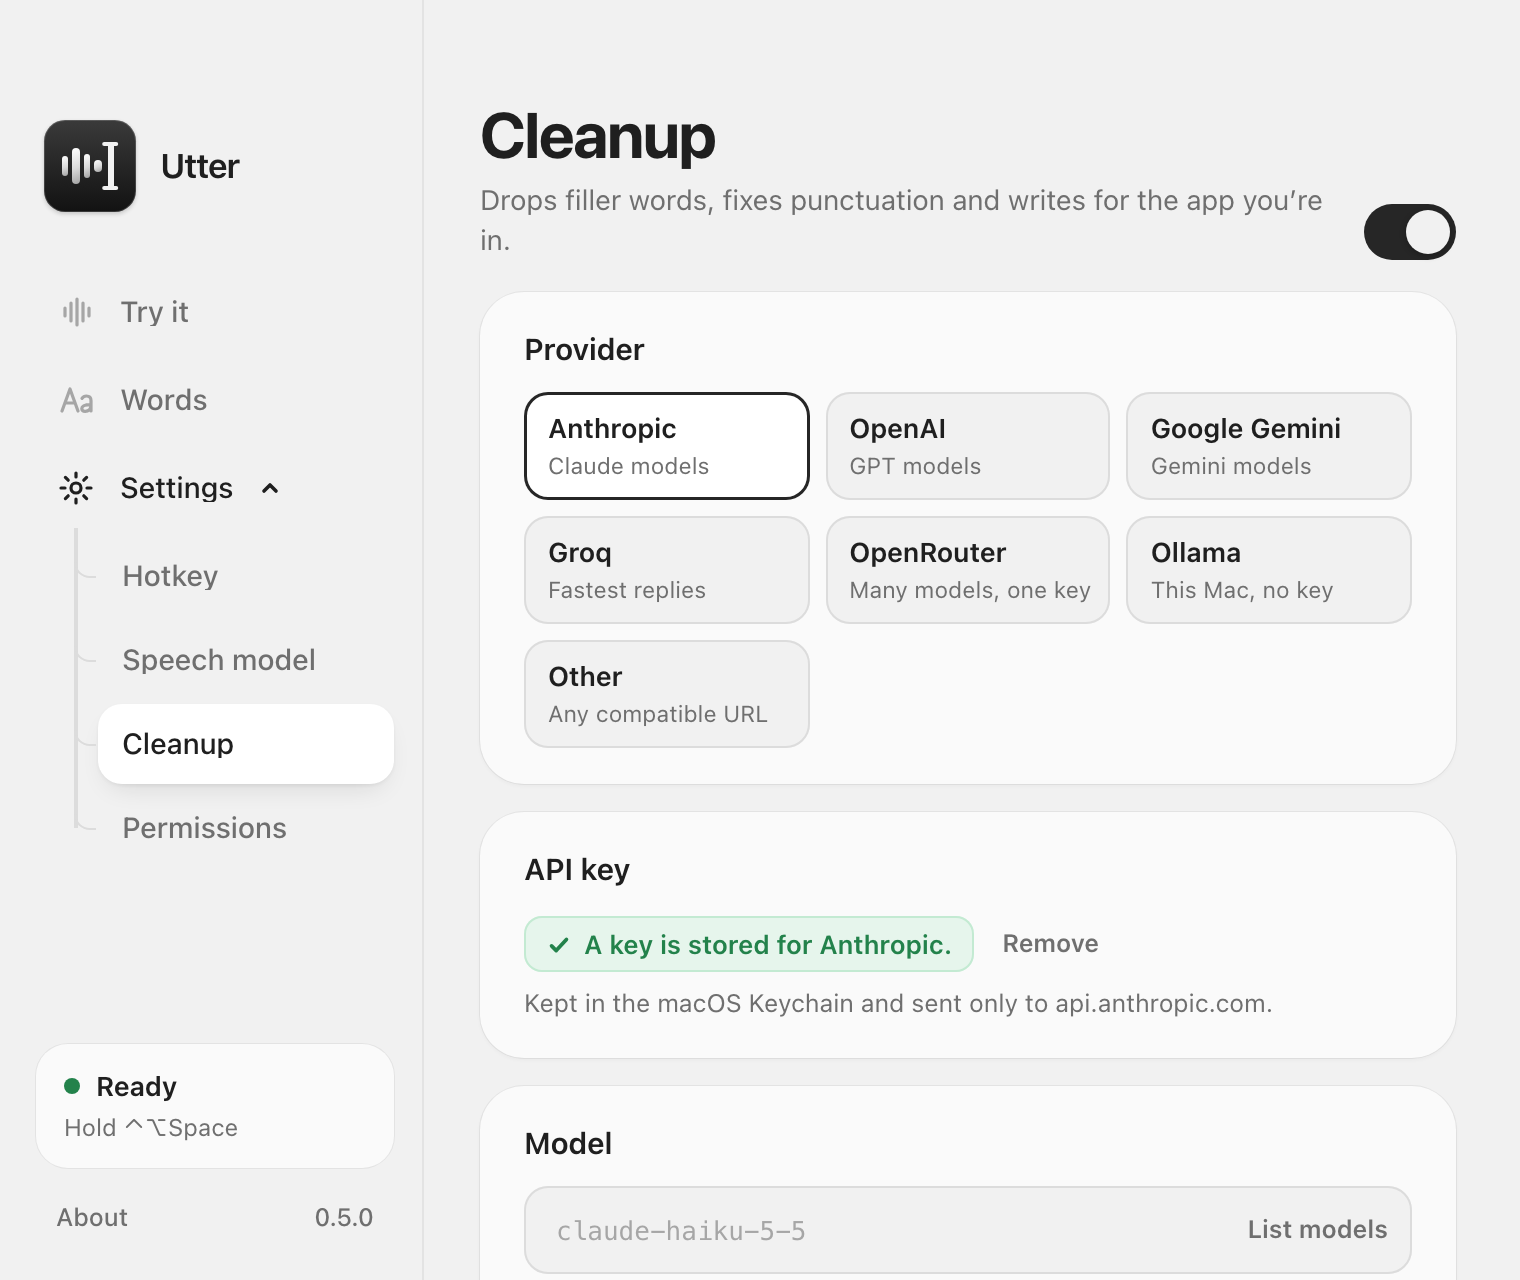
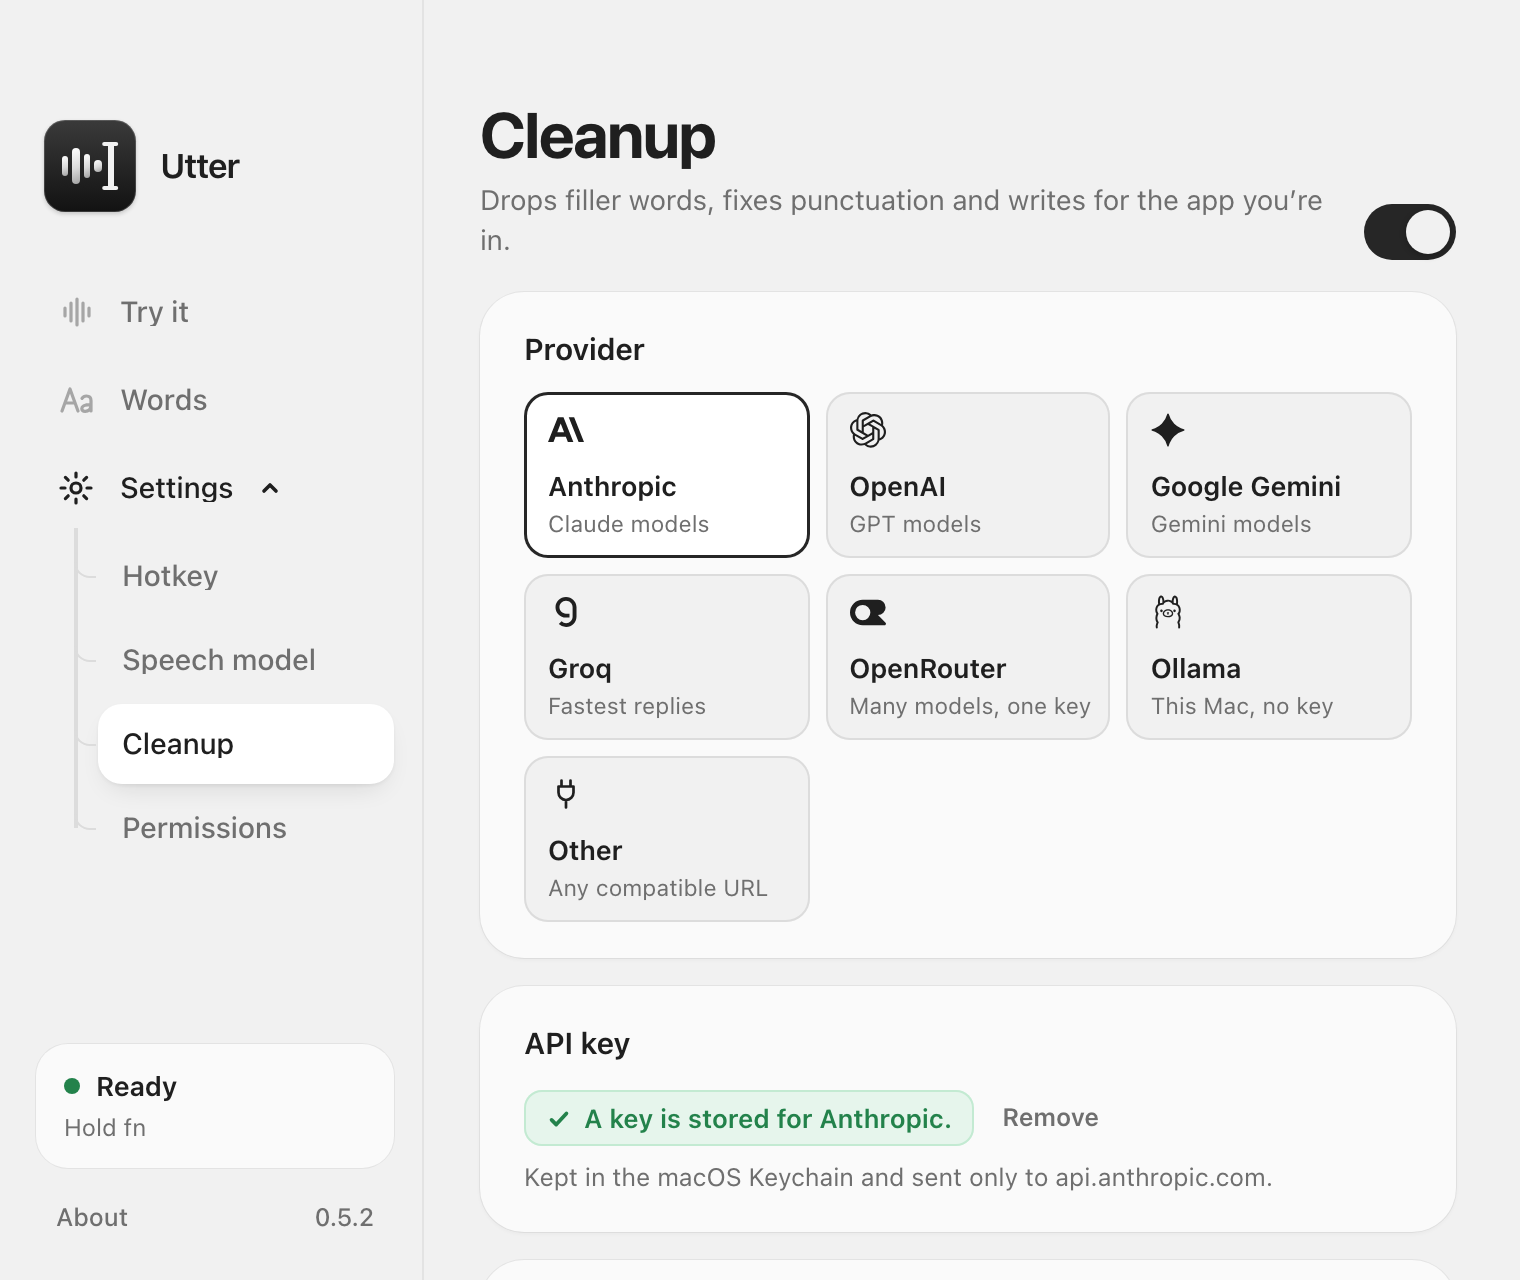
README: new demo GIF and screenshots for 0.5.2, appearance setting, model picker, full code map, film credit

diff --git a/src/dev-mock.ts b/src/dev-mock.ts
@@ -30,6 +30,7 @@
 //   ?fail=startup-hotkey   macOS refused the hotkey at launch
 //   ?pill=listen|handsfree|transcribe|tidy|rewrite|edit|note|note2|paste|blocked|learned
 //                     hold the pill (open /#pill) in one state
+import { version } from "../package.json";
 import { emit } from "@tauri-apps/api/event";
 import { mockIPC, mockWindows } from "@tauri-apps/api/mocks";
 import type {
@@ -400,8 +401,8 @@ function watchHotkeys() {
 }
 
 let updateStatus = {
-  current: "0.5.0",
-  latest: query.get("update") === "new" ? "0.5.1" : query.get("update") === "current" ? "0.5.0" : null,
+  current: version,
+  latest: query.get("update") === "new" ? "1.0.0" : query.get("update") === "current" ? version : null,
   newer: query.get("update") === "new",
   summary: query.get("update") === "new" ? "Fixes hands-free stopping too early, and two crashes." : null,
   url: "https://github.com/ShanTirmizi/utter/releases/latest",
@@ -589,7 +590,7 @@ export function installMock() {
           updateStatus = {
             ...updateStatus,
             checkedAt: Date.now(),
-            latest: query.get("update") === "new" ? "0.5.1" : updateStatus.current,
+            latest: query.get("update") === "new" ? "1.0.0" : updateStatus.current,
             newer: query.get("update") === "new",
             summary: query.get("update") === "new" ? "Fixes hands-free stopping too early, and two crashes." : null,
             url: "https://github.com/ShanTirmizi/utter/releases/latest",

diff --git a/README.md b/README.md
@@ -17,7 +17,7 @@ Or [download the DMG](https://github.com/ShanTirmizi/utter/releases/latest/downl
 </p>
 
 <p align="center">
-  <img src="docs/images/demo.gif" alt="A dictation into Slack: the spoken words with ums and repeats, then the tidied message typed into the box" width="640" />
+  <img src="docs/images/demo.gif" alt="A dictation into Slack: the words as heard, with ums and repeats struck out, then the tidied message typed into the box" width="640" />
 </p>
 
 Why another dictation app:
@@ -175,7 +175,8 @@ After that, the window has a sidebar: Try it, Words, then Settings (Hotkey,
 Speech model, Cleanup, Permissions), and About at the foot. The status card
 above About always says whether Utter is ready; if it is not, it names the one
 problem, the section that fixes it carries a `!`, and clicking the card opens
-it. The window follows the system appearance, light or dark.
+it. The window follows the system appearance, or pick Light or Dark under
+**About**.
 
 Closing the window keeps Utter running in the menu bar. The menu bar icon
 moves while Utter listens or works and shows a dot when it needs you. Its menu
@@ -187,8 +188,9 @@ Word…, Add a Word…, Undo Learning, About Utter, Check for Updates… and Qui
 1. Under **Cleanup**, pick a provider.
 2. Paste an API key for it and press Save. The "Get a key" link opens the
    provider's key page.
-3. Choose a model. **List models** shows what your key can use. Pick a small,
-   fast one: cleanup is light editing, and you wait for it.
+3. Choose a model. Click the model field to pick from what your key can use
+   (**List models** refreshes the list), or type a name. Pick a small, fast
+   one: cleanup is light editing, and you wait for it.
 4. Press **Test** to confirm it works.
 
 | Provider | Key | Model |
@@ -446,7 +448,9 @@ The code is laid out as one file per stage of the pipeline, in
 
 | File | Job |
 | --- | --- |
+| `lib.rs` | App setup, the commands the window calls, windows and appearance |
 | `hotkey.rs` | Register the two push-to-talk hotkeys |
+| `fnkey.rs`, `globe.rs` | The fn key on its own, and switching off macOS's globe-key action while it is used |
 | `audio.rs` | Record the microphone, convert to 16 kHz mono |
 | `transcribe.rs`, `models.rs` | Run whisper.cpp, download models |
 | `context.rs` | Work out which app is focused and what kind it is |
@@ -456,6 +460,8 @@ The code is laid out as one file per stage of the pipeline, in
 | `insert.rs` | Clipboard save, paste, restore |
 | `pipeline.rs` | Runs the stages in order |
 | `history.rs` | Past dictations, in a file on this Mac |
+| `words.rs`, `learn.rs`, `screen.rs` | Your words and their mishearings, learning from corrections, names on screen |
+| `tray.rs`, `updates.rs` | The menu bar icon and menu, the update check |
 | `secrets.rs`, `settings.rs` | Keychain and preferences |
 | `permissions.rs` | Check and request macOS permissions |
 
@@ -494,5 +500,7 @@ see [CONTRIBUTING.md](CONTRIBUTING.md); for security problems,
 [MIT](LICENSE)
 
 The app and the download page use the system font; no typefaces are bundled.
+The launch film's footage, music, sound effects and voice were generated with
+ElevenLabs; every product moment in it is the real app.
 The provider marks come from [@lobehub/icons-static-svg](https://github.com/lobehub/lobe-icons)
 (MIT) and are shown in one colour; they are trademarks of their owners.
